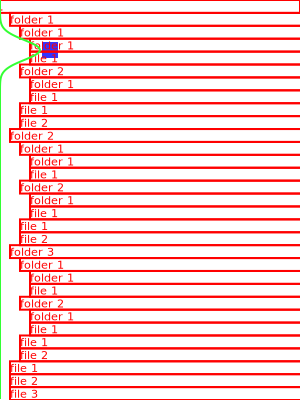
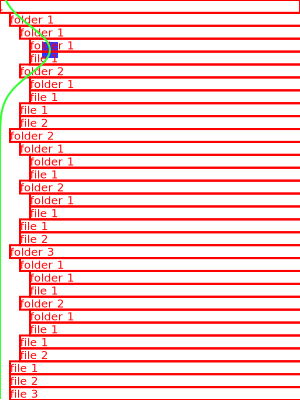
Extract NormalDistribution.

Changed region(s): [[0.0, 0.06, 0.18, 0.33], [0.0, 0.0, 0.09, 0.09]]

diff --git a/ride.py b/ride.py
@@ -50,7 +50,12 @@ class TreeView:
         context.set_font_size(font_size)
         ascent, descent, font_height, _, _ = context.font_extents()
         context.set_source_rgb(1, 0, 0)
-        self.scale(item_size=font_height, container_size=height)
+        distribution = NormalDistribution(center=mouse_y, deviation=font_size*1.2)
+        self.scale(
+            item_size=font_height,
+            container_size=height,
+            distribution=distribution,
+        )
         y = 0
         for item in self.items:
             y += item.paint(
@@ -64,13 +69,13 @@ class TreeView:
         if debug:
             for point in range(0, height, 1):
                 context.line_to(
-                    normal_distribution(point, center=mouse_y)*1000,
+                    distribution.at(point)*3000,
                     point
                 )
             context.set_source_rgb(0.2, 1, 0.2)
             context.stroke()
 
-    def scale(self, item_size, container_size):
+    def scale(self, item_size, container_size, distribution=None):
         """
         Even:
 
@@ -254,19 +259,30 @@ class Canvas(Gtk.DrawingArea):
         )
         self.queue_draw()
 
-def normal_distribution(x, center=100, deviation=10):
-    """
-    >>> round(normal_distribution(x=0, center=0, deviation=1), 2)
-    0.4
+class NormalDistribution:
 
-    >>> round(normal_distribution(x=2, center=0, deviation=1), 2)
-    0.05
-    """
-    return (
-        1 / math.sqrt(2*math.pi*deviation**2)
-    ) * math.e ** (
-        -0.5*((x-center)/deviation)**2
-    )
+    def __init__(self, center, deviation):
+        self.center = center
+        self.deviation = deviation
+
+    def max(self):
+        return self.at(self.center)
+
+    def at(self, x):
+        """
+        >>> x = NormalDistribution(center=0, deviation=1)
+
+        >>> round(x.at(0), 2)
+        0.4
+
+        >>> round(x.at(2), 2)
+        0.05
+        """
+        return (
+            1 / math.sqrt(2*math.pi*self.deviation**2)
+        ) * math.e ** (
+            -0.5*((x-self.center)/self.deviation)**2
+        )
 
 if __name__ == "__main__":
     window = Gtk.Window()
